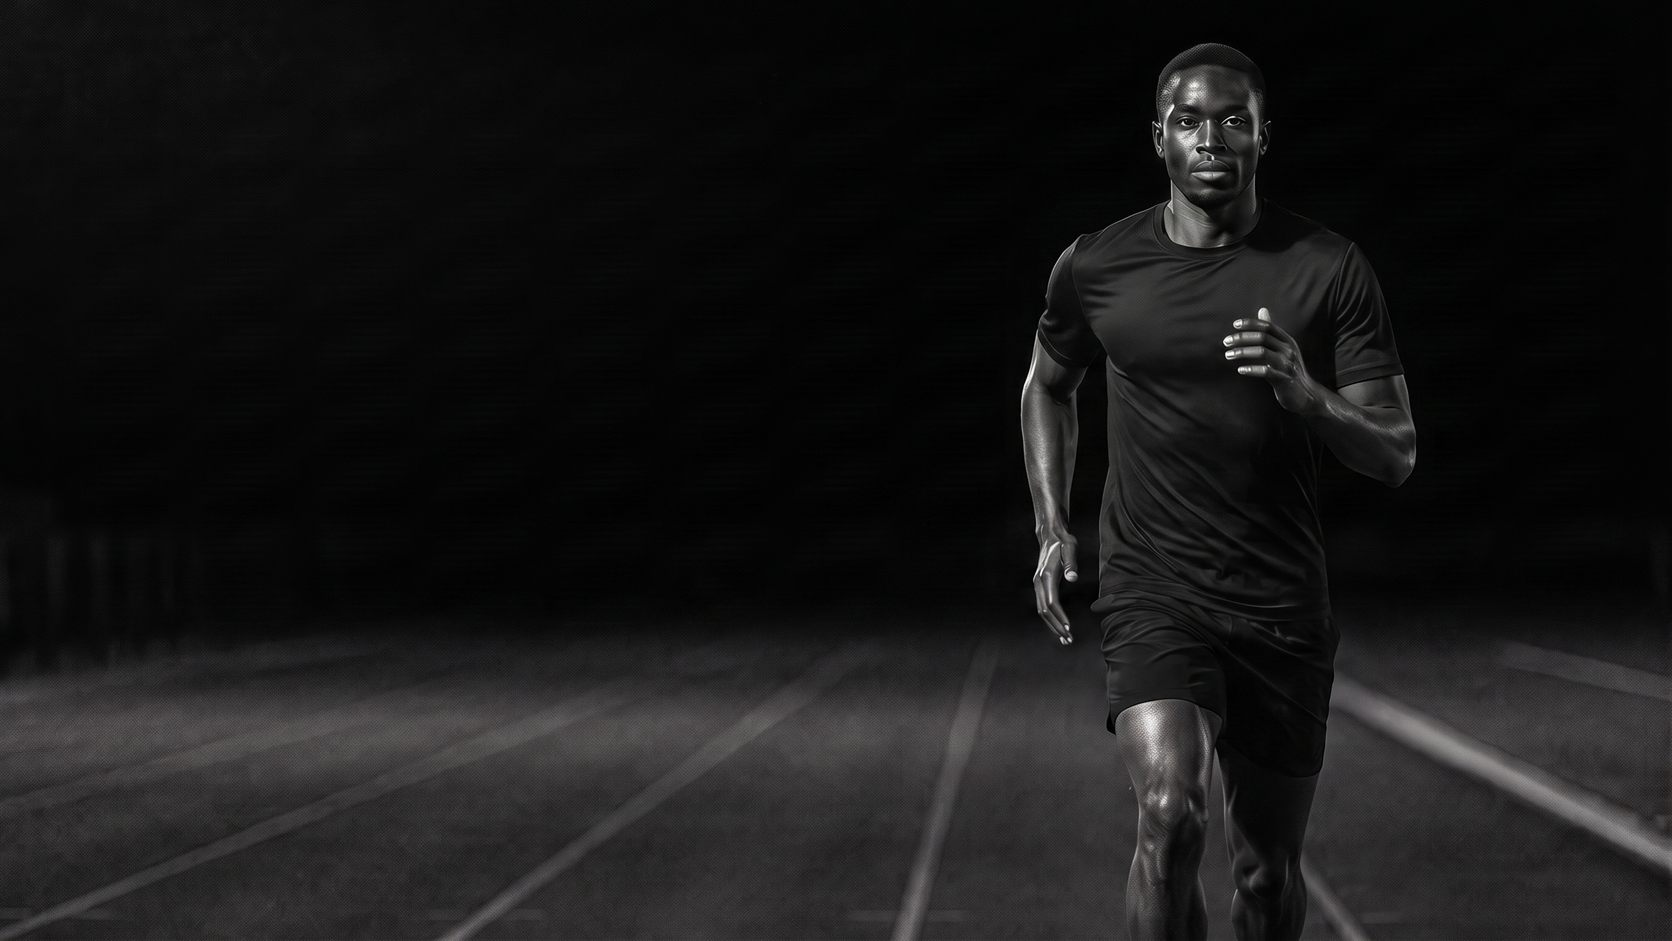
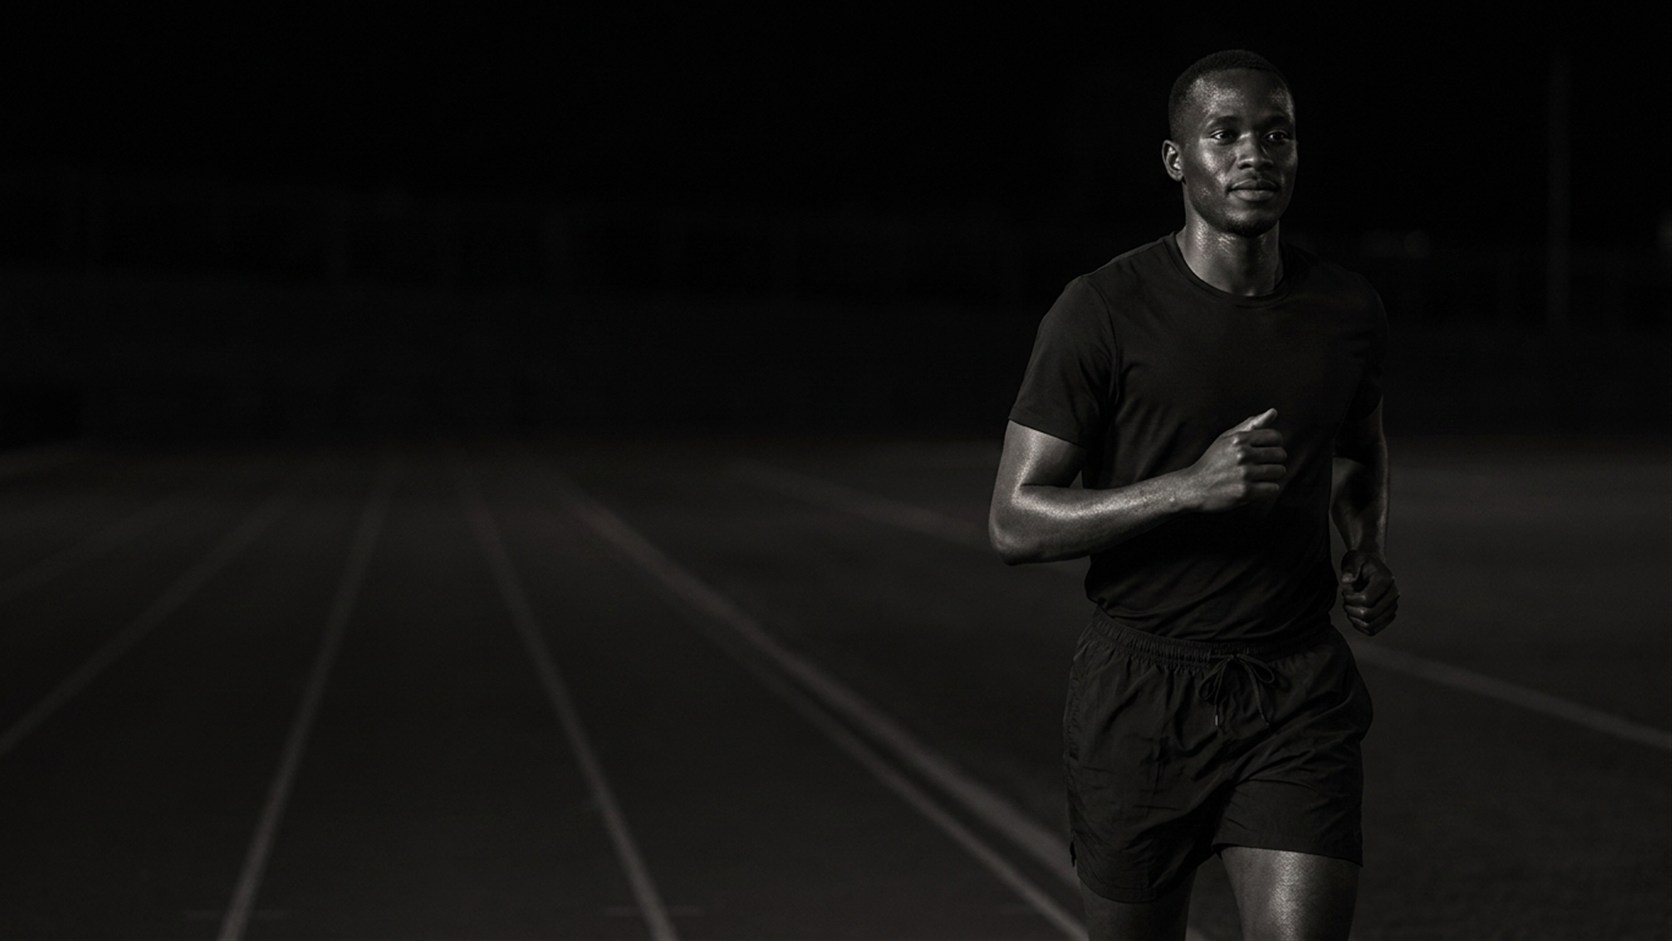
Golf photo hero; darker Running grade; retire the watermarked golf shot
Golf: collection-golf.html moves from a centred text-only hero to the
shared .chero photo pattern (nav-over-hero was already set). No
page-scoped framing needed - the shared 72% top puts the golfer at 72%
across on desktop and 65% on mobile, clear of the copy column.

hero-golf.jpg is replaced by the coastal-course photo, which also
retires the KlingAI watermark that was burned into the old shot and
visible on the about.html Golf tile.

That tile crops 2/1 and takes ~18px off a 1672x941 source; the golfer's
head starts at ~13px, so object-position moves from center to top.

Running: hero-running.jpg swapped for the darker grade of the same
track shot. Same dimensions, so the framing rules are unchanged.

Both sources were 1376x768 and are upscaled 1.22x to the 1672x941 hero
spec; originals archived outside the repo.

Changed region(s): [[0.0, 0.0308, 1.0, 1.0], [0.9019, 0.9245, 0.9641, 0.9862]]

diff --git a/collection-golf.html b/collection-golf.html
@@ -95,14 +95,18 @@
 <div id="moverlay" class="fixed inset-0 bg-black/20 z-40 hidden"></div>
 
 <!-- HERO -->
-<section id="main" class="pt-28 pb-14 px-6 text-center" style="position:relative;overflow:hidden;background:#0a0a0a;">
-  <div class="max-w-4xl mx-auto" style="position:relative;">
-    <p class="fu text-xs font-semibold uppercase tracking-widest text-gray-500 mb-4">Collection</p>
-    <h1 class="fu d1 t-hero text-white">Golf</h1>
-    <p class="fu d2 text-lg mt-5" style="color:#9ca3af">Performance and style on the course.</p>
-    <div class="fu d3 flex items-center justify-center gap-4 mt-8">
-      <a href="collections.html" class="btn-p">Shop All</a>
-      <a href="#products" class="text-sm font-medium text-gray-400 hover:text-white transition-colors">View collection &darr;</a>
+<section id="main" class="chero pt-28 pb-16 px-6">
+  <div class="chero-img" style="background-image:url('images/hero-golf.jpg')"></div>
+  <div class="chero-scrim"></div>
+  <div class="chero-body">
+    <div class="chero-copy">
+      <p class="fu text-xs font-semibold uppercase tracking-widest text-gray-500 mb-4">Collection</p>
+      <h1 class="fu d1 t-hero text-white">Golf</h1>
+      <p class="fu d2 text-lg mt-5" style="color:#9ca3af">Performance and style on the course.</p>
+      <div class="fu d3 flex items-center gap-4 mt-8">
+        <a href="collections.html" class="btn-p">Shop All</a>
+        <a href="#products" class="text-sm font-medium text-gray-400 hover:text-white transition-colors">View collection &darr;</a>
+      </div>
     </div>
   </div>
 </section>

diff --git a/about.html b/about.html
@@ -222,7 +222,8 @@
       <!-- Row 2: 2 smaller cards -->
       <div class="grid grid-cols-1 sm:grid-cols-2 gap-4">
         <a href="collection-golf.html" class="fu d2 group relative rounded-2xl overflow-hidden" style="aspect-ratio:2/1;text-decoration:none;display:block">
-          <img src="images/hero-golf.jpg" alt="Golf" style="width:100%;height:100%;object-fit:cover;object-position:center;display:block;transition:transform .5s cubic-bezier(.16,1,.3,1)" class="group-hover:scale-105">
+          <!-- object-position:top, not center: this 2/1 tile crops ~5.6% off a 1672x941 source, and the golfer's head sits 4% down the frame. Centre-cropping takes the top of his head off. -->
+          <img src="images/hero-golf.jpg" alt="Golf" style="width:100%;height:100%;object-fit:cover;object-position:top;display:block;transition:transform .5s cubic-bezier(.16,1,.3,1)" class="group-hover:scale-105">
           <div style="position:absolute;inset:0;background:linear-gradient(to top,rgba(0,0,0,.65) 0%,rgba(0,0,0,.1) 50%,transparent 100%)"></div>
           <div style="position:absolute;bottom:0;left:0;padding:20px 22px;width:100%">
             <p style="font-size:10px;font-weight:700;color:rgba(255,255,255,.5);letter-spacing:.1em;text-transform:uppercase;margin-bottom:4px">03</p>
